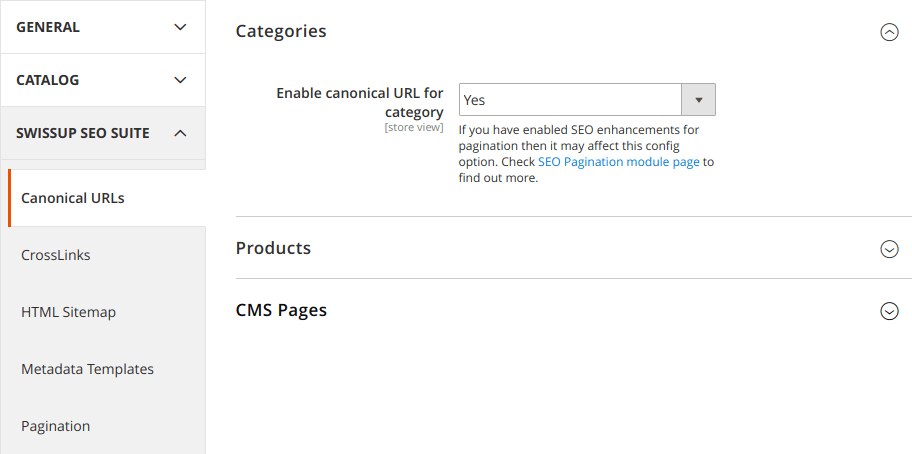
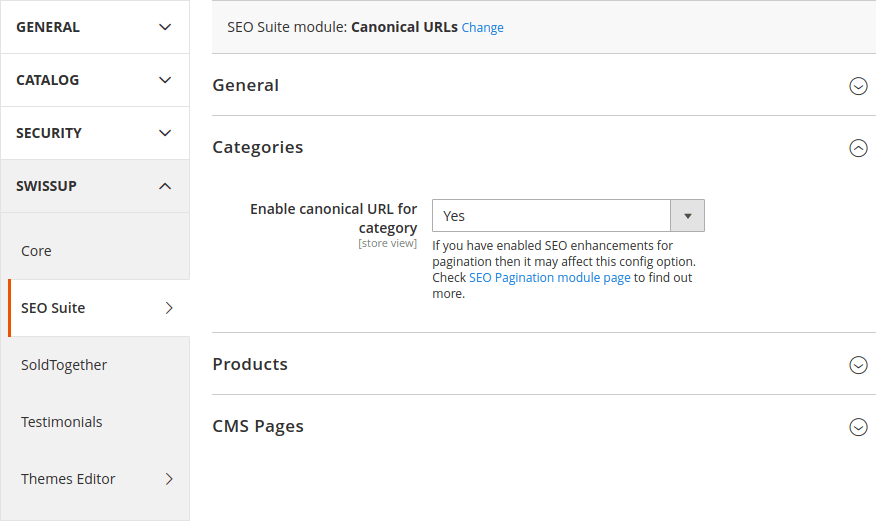
SEO Canonical M2 - screenshots update.

diff --git a/m2/extensions/seo-canonical/configuration.md b/m2/extensions/seo-canonical/configuration.md
@@ -15,6 +15,12 @@ category: Canonical URL
 You can configure SEO enhancements for paginated content at
 _Stores → Configuration → Swissup → SEO Suite → Canonical URLs_ page.
 
+### General
+
+![General setting](/images/m2/seo-canonicals/general.png)
+
+Here you can change how canonical URl domain is build.
+
 ### Categories
 
 ![Category setting](/images/m2/seo-canonicals/categories.png)
